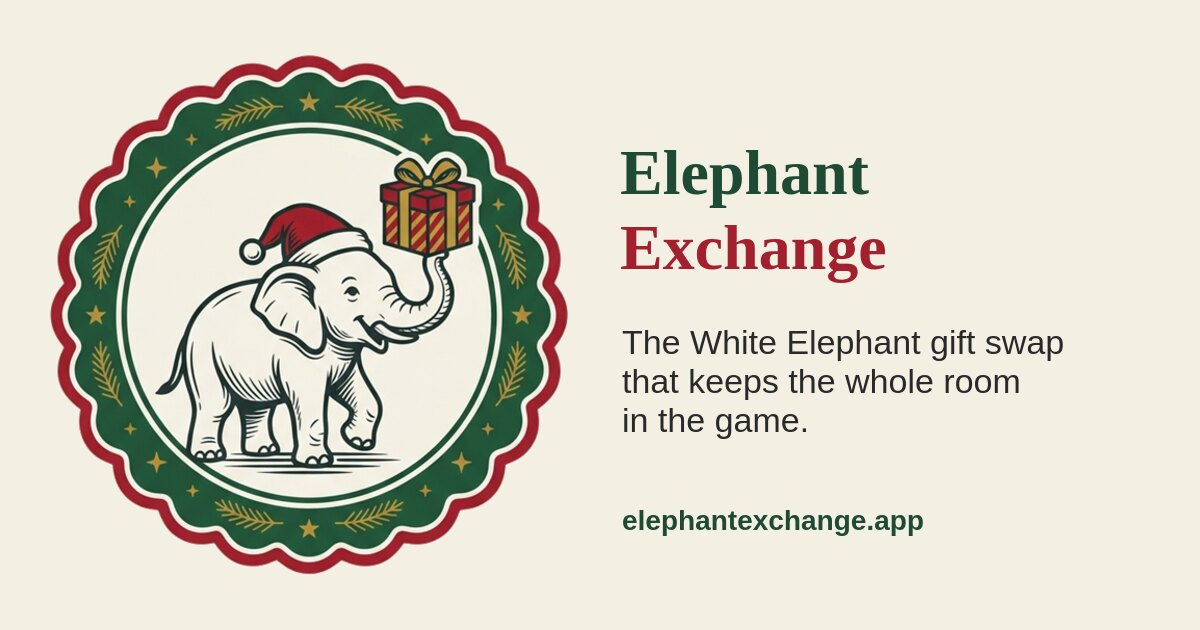
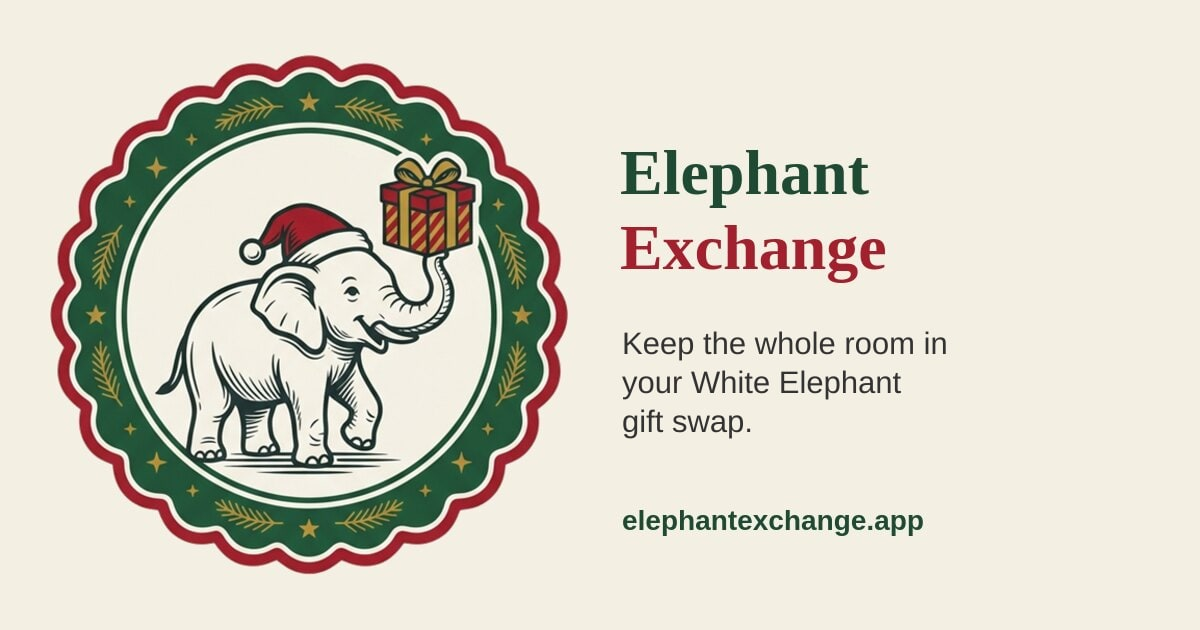
Front page and link card: the app adds to a party's own White Elephant swap rather than being it ("Keep the whole room in your White Elephant gift swap"); claims softened (turns move faster, fewer debates)

Changed region(s): [[0.4933, 0.5127, 0.8942, 0.6937]]

diff --git a/packages/web/src/Landing.tsx b/packages/web/src/Landing.tsx
@@ -51,10 +51,11 @@ export function Landing({ signedIn = false }: { signedIn?: boolean }) {
           alt="A big office holiday party in full swing: a room of round tables, a pile of wrapped gifts half picked over, guests holding up the gifts they opened, and the scoreboard on the TV at the far end"
         />
         <img className="landing-medallion" src={medallion} width={640} height={640} alt="" />
-        <p className="landing-tagline">The White Elephant gift swap that keeps the whole room in the game.</p>
+        <p className="landing-tagline">Keep the whole room in your White Elephant gift swap.</p>
         <p className="landing-lede">
-          Run your party's gift exchange from a laptop plugged into the big screen (a TV or projector). Every opened gift,
-          who has it and how many times it's been stolen goes up for the whole room. Guests are welcome to follow along on
+          Your party already has the gifts and the tradition. Elephant Exchange adds a big screen: from a laptop plugged
+          into a TV or projector, every opened gift, who has it and how many times it's been stolen goes up for the whole
+          room. Guests are welcome to follow along on
           their own phones too, keeping up with the gifts and sharing photos and comments. No phone? No problem: the big
           screen shows everyone everything.
         </p>
@@ -70,12 +71,15 @@ export function Landing({ signedIn = false }: { signedIn?: boolean }) {
 
       <section className="card landing-problem" aria-label="Sound familiar?">
         <h2>Sound familiar?</h2>
-        <p>Fifty people, a pile of wrapped gifts and a rule everyone remembers differently. Two hours later you're on turn thirty.</p>
+        <p>
+          White Elephant swaps are a great tradition. With fifty people, a pile of wrapped gifts and a rule everyone
+          remembers a little differently, they can also start to drag.
+        </p>
         <ul>
           <li>Every turn, someone wanders the room asking who has what before they decide whether to steal.</li>
           <li>From the back, nobody can see what that gift card was for, or what was in the box that just got opened.</li>
           <li>Was that one stolen twice or three times? Cue the argument.</li>
-          <li>By the end, half the room has drifted off to the snacks.</li>
+          <li>By the end, part of the room has drifted off to the snacks.</li>
         </ul>
       </section>
 
@@ -83,10 +87,10 @@ export function Landing({ signedIn = false }: { signedIn?: boolean }) {
         <h2 className="landing-section-title">How Elephant Exchange helps</h2>
         <div className="landing-points">
           <section className="card">
-            <h3>⚡ Turns take seconds</h3>
+            <h3>⚡ Turns move faster</h3>
             <p>
-              Every opened gift is on the big screen with its holder and how many steals it has left. People decide from their
-              seats, and the next name is already on deck.
+              Every opened gift is on the big screen with its holder and how many steals it has left. People can decide from
+              their seats, and the next name is already on deck.
             </p>
           </section>
           <section className="card">
@@ -105,7 +109,7 @@ export function Landing({ signedIn = false }: { signedIn?: boolean }) {
             <h3>⚖ The app keeps track of the rules</h3>
             <p>
               Steal limits, frozen gifts, no take-backs and a final round for the first few players: the app tracks them
-              all and won't allow a move that breaks one. No more debates.
+              all and won't allow a move that breaks one. Fewer debates.
             </p>
           </section>
           <section className="card">

diff --git a/packages/web/index.html b/packages/web/index.html
@@ -5,7 +5,7 @@
     <meta name="viewport" content="width=device-width, initial-scale=1, viewport-fit=cover" />
     <meta name="theme-color" content="#b3202e" />
     <title>Elephant Exchange: the White Elephant gift swap that keeps the whole room in the game</title>
-    <meta name="description" content="Run a big White Elephant gift exchange from a laptop or phone: every gift, holder and steal on the big screen, and guests can follow along on their phones, sharing photos and comments from the party." />
+    <meta name="description" content="Add a big screen to your White Elephant gift exchange: run from a laptop, every gift, holder and steal shows for the whole room, and guests can follow along on their phones, sharing photos and comments." />
     <link rel="icon" href="/favicon.ico" sizes="any" />
     <link rel="icon" type="image/png" sizes="32x32" href="/favicon-32x32.png" />
     <link rel="apple-touch-icon" href="/apple-touch-icon.png" />
@@ -15,7 +15,7 @@
     <meta property="og:site_name" content="Elephant Exchange" />
     <meta property="og:url" content="https://elephantexchange.app/" />
     <meta property="og:title" content="Elephant Exchange" />
-    <meta property="og:description" content="The White Elephant gift swap that keeps the whole room in the game: every gift, holder and steal on the big screen, and guests can follow along on their phones." />
+    <meta property="og:description" content="Keep the whole room in your White Elephant gift swap: every gift, holder and steal on the big screen, and guests can follow along on their phones." />
     <meta property="og:image" content="https://elephantexchange.app/og-image.jpg" />
     <meta property="og:image:width" content="1200" />
     <meta property="og:image:height" content="630" />

diff --git a/packages/web/test/landing.test.tsx b/packages/web/test/landing.test.tsx
@@ -15,7 +15,7 @@ describe("The landing page", () => {
     expect(within(hero).getByRole("link", { name: /try the demo/i })).toHaveAttribute("href", "/try");
     expect(within(hero).getByRole("link", { name: /host a game/i })).toHaveAttribute("href", "#host");
     expect(screen.getByRole("region", { name: /sound familiar/i })).toHaveTextContent(/wanders the room/i);
-    for (const point of [/turns take seconds/i, /the whole room stays in it/i, /the app keeps track of the rules/i, /nothing to install/i]) {
+    for (const point of [/turns move faster/i, /the whole room stays in it/i, /the app keeps track of the rules/i, /nothing to install/i]) {
       expect(screen.getByRole("heading", { name: point })).toBeInTheDocument();
     }
     expect(screen.getByRole("region", { name: /how it works/i })).toHaveTextContent(/create a game.*scoreboard on the big screen.*call names/i);
